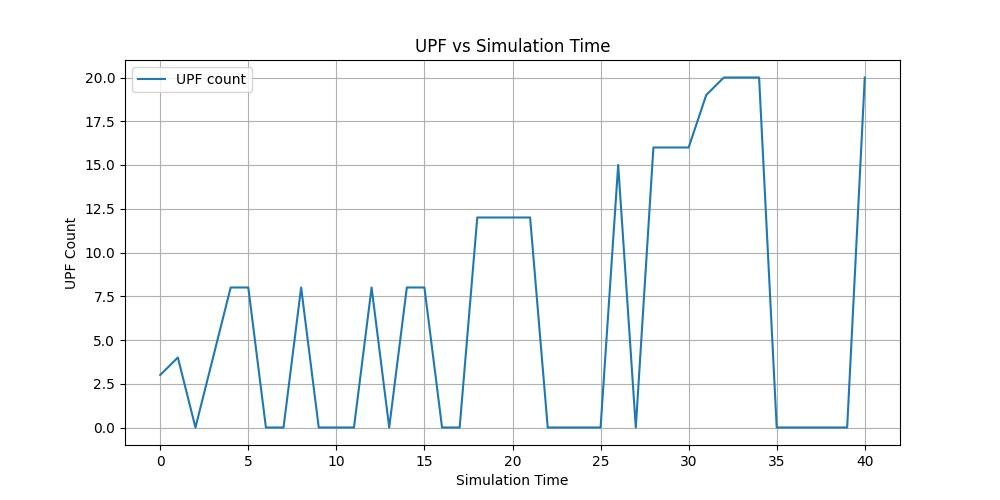
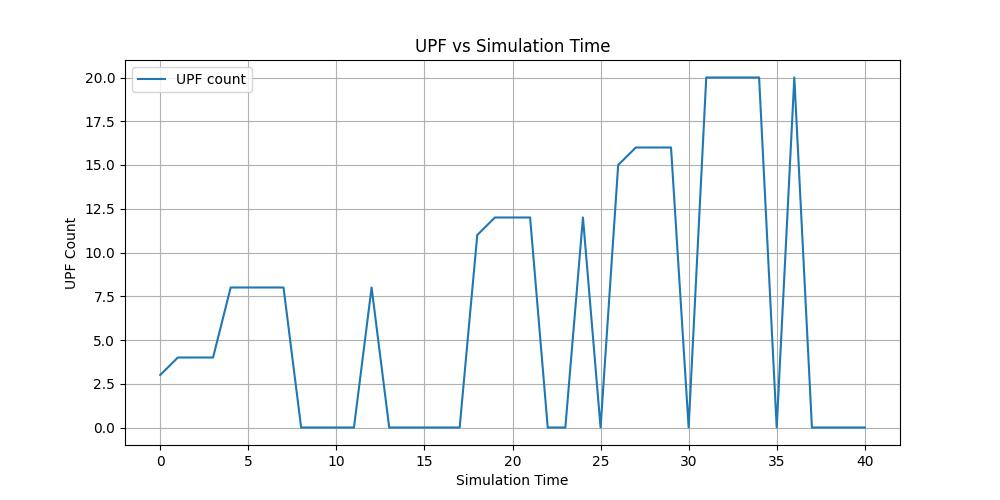
fixed the issue with pdu counter not being correctly incremented

diff --git a/ue.py b/ue.py
@@ -1,7 +1,7 @@
+import numpy as np
 from event import Event
 from events import Events
 from pdu import PDU
-import numpy as np
 
 
 class UE:
@@ -9,26 +9,26 @@ class UE:
 
     def __init__(self, name):
         self.name = name
-        self.pdu_session_id = 0  # PDU id
+        self.pdu_session_id = 0  # Initialize PDU session ID for each UE
 
     def generate_pdu_session(self):
         pdu_session = f"{self.name}_pdu{self.pdu_session_id}"  # PDU session generated by the UE
-        self.pdu_session_id += 1
         return pdu_session
 
     def pdu_session_generation(self, scheduler):
-        pdu_id = self.pdu_session_id
-        pdu_class = None  # Class of PDU being generated
         pdu_session = self.generate_pdu_session()
+        pdu_class = None  # Class of PDU being generated
         pdu_duration = np.ceil(np.random.exponential(scale=5))  # Exponential distribution with scale mu=5
         pdu_start_time = np.ceil(scheduler.current_time)  # Start time of the PDU session
-        PDU(pdu_id, pdu_class, self.name, scheduler.compute_node, pdu_start_time, pdu_duration)
+        PDU(self.pdu_session_id, pdu_class, self.name, scheduler.compute_node, pdu_start_time, pdu_duration)
         print(f"{Event.event_id_counter}, {np.ceil(scheduler.current_time)}, {self.name} generated {pdu_session}")
         print(f"{Event.event_id_counter}, {np.ceil(scheduler.current_time)}, "
               f"{self.name} sends PDU request to {scheduler.compute_node.name} "
               f"for {pdu_session}")
         pdu_request_event = Event(pdu_start_time, Events.PDU_request, 1, pdu_session)
         scheduler.schedule_event(pdu_request_event)
+        # Increment pdu_session_id for the next PDU session
+        self.pdu_session_id += 1
         # Schedule next call of pdu_session_generation
         next_arrival_time = np.ceil(scheduler.current_time + np.random.exponential(scale=2))  # Exponential
         # distribution with
